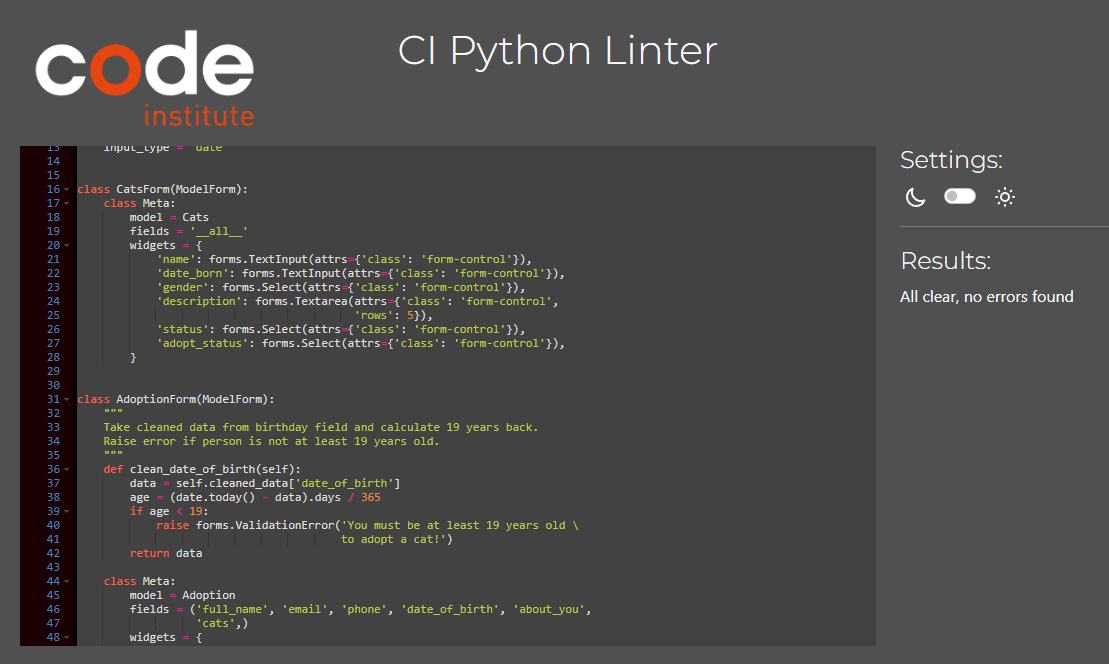
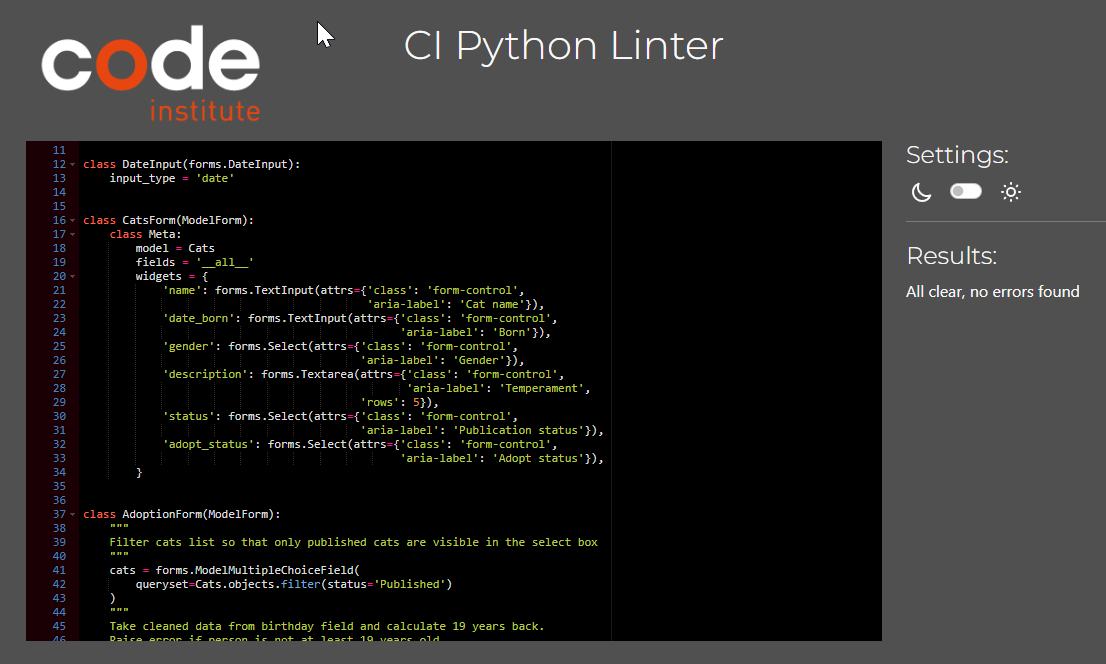
Add ReadMe file incl. images

diff --git a/cats/forms.py b/cats/forms.py
@@ -21,11 +21,11 @@ class CatsForm(ModelForm):
             'name': forms.TextInput(attrs={'class': 'form-control',
                                            'aria-label': 'Cat name'}),
             'date_born': forms.TextInput(attrs={'class': 'form-control',
-                                            'aria-label': 'Born'}),
+                                                'aria-label': 'Born'}),
             'gender': forms.Select(attrs={'class': 'form-control',
                                           'aria-label': 'Gender'}),
             'description': forms.Textarea(attrs={'class': 'form-control',
-                                                'aria-label': 'Temperament',
+                                                 'aria-label': 'Temperament',
                                           'rows': 5}),
             'status': forms.Select(attrs={'class': 'form-control',
                                           'aria-label': 'Publication status'}),
@@ -69,7 +69,7 @@ class AdoptionForm(ModelForm):
                                             'placeholder': 'Phone number *, ' +
                                             'use format +46 123456789'}),
             'date_of_birth': forms.DateInput(attrs={'type': 'date',
-                                                    'aria-label': 'Date of Birth'}),
+                                                    'aria-label': 'Birthday'}),
             'about_you': forms.Textarea(attrs={'class': 'form-control',
                                                'aria-label': 'About you',
                                                'rows': 5, 'placeholder':
@@ -112,7 +112,7 @@ class StatusForm(ModelForm):
             'status': forms.Select(attrs={'class': 'form-control',
                                           'aria-label': 'Status'}),
             'comments': forms.Textarea(attrs={'class': 'form-control',
-                                            'aria-label': 'Comments',
+                                              'aria-label': 'Comments',
                                               'rows': 5,
                                               'placeholder': 'Comments'}),
         }

diff --git a/README.md b/README.md
@@ -6,7 +6,8 @@
 
 [Mayas Cat Shelter](https://mayas-cat-shelter-9ef5d0b15271.herokuapp.com/) is a fictional cat shelter in the city of Gävle, Sweden. The structure, set-up as well as the background stories of the cats are losely based on a real local cat shelter, Gefle Katthem. 
 
-![Mayas Cat Shelter](IMAGE)
+![Mayas Cat Shelter](static/readme-images/screenshots-pages/amiresponsive1.png)
+![Mayas Cat Shelter](static/readme-images/screenshots-pages/amiresponsive2.png)
 
 Each page includes a responsive navigation bar as well as a footer with copyright information, social media links and a fictional telephone number. 
 The start page includes an image carousel with two images which link to a page with available cats respective a page with information about the adoption process. 
@@ -19,7 +20,9 @@ More details can be found in the respective Features section.
 ## UX
 
 Mayas Cat Shelter is for all people who love cats and consider to adopt one. 
-Stumbling into the cat adoption world myself by accident, cat lovers come in all sizes, shapes, education levels, cultural backgrounds and ages. However, loving cats it not enough because when adopting a cat you take over the responsibility for a living being. And cats can be up to 20 years (or older) so it's really a long lasting relationship and should be well thought through. That's why I put much effort into the adoption rules & process page and tried to explain why a cat shelter is thorough in checking each application to find the perfect match. 
+Stumbling into the cat adoption world myself by accident, cat lovers come in all sizes, shapes, education levels, cultural backgrounds and ages. 
+So, target group for this website are all people who love cats, but of course merely those who live close to the cat shelter. 
+
 
 
 ## Design
@@ -27,6 +30,8 @@ Stumbling into the cat adoption world myself by accident, cat lovers come in all
 ### Colors
 
 The websites's color scheme uses soft tones that harmonize very well with each other. I wanted to have a color scheme that includes red and blue tones to represent female and male cats and found a palette that blends some calming greenish color with the mentioned red and blue and makes it look very appealing.
+
+![Color palette](static/readme-images/others/color_palette.png)
 
 ### Typography
 
@@ -36,7 +41,38 @@ I wanted to add a logotype representing a cat and found a nice image that I used
 ## Wireframes
 
 Wireframes were created for desktop, iPad and smartphones using Balsamiq.
-IMAGES
+
+#### Home Page
+![Home Page Desktop](/static/readme-images/wireframes/Home.png)
+
+![Home Page iPad](/static/readme-images/wireframes/Home iPad.png)
+
+![Home Page Smartphone](static/readme-images/wireframes/Home Smartphone.png)
+
+#### Our Cats
+![Our Cats Desktop](/static/readme-images/wireframes/Our Cats.png)
+![Our Cats iPad](static/readme-images/wireframes/Our Cats iPad.png)
+![Our Cats Smartphone](static/readme-images/wireframes/Our Cats Smartphone.png)
+
+#### Adoption
+![Adoption Rules Desktop](static/readme-images/wireframes/Adoption Rules.png)
+![Adooption Rules iPad](static/readme-images/wireframes/Adoption Rules iPad.png)
+![Adoption Rules Smartphone](static/readme-images/wireframes/Adoption Rules Smartphone.png)
+
+#### Adoption Form
+![Adoption Form Desktop](static/readme-images/wireframes/Adoption Form.png)
+![Adoption Form iPad](static/readme-images/wireframes/Adoption Form iPad.png)
+![Adoption Form Smartphone](static/readme-images/wireframes/Adoption Form Smartphone.png)
+
+#### Administration Cats
+![Admin Cats Desktop](static/readme-images/wireframes/Administration Cats.png)
+![Admin Cats iPad](static/readme-images/wireframes/Administration Cats iPad.png)
+![Admin Cats Smartphone](static/readme-images/wireframes/Administration Cats Smartphone.png)
+
+#### Administration Adoption Requests
+![Admin Adoption Desktop](static/readme-images/wireframes/Administration Adoptions.png)
+![Admin Adoption iPad](static/readme-images/wireframes/Administration Adoptions iPad.png)
+![Admin Adoption Smartphone](static/readme-images/wireframes/Administration Adoptions Smartphone.png)
 
 ## Agile 
 
@@ -50,7 +86,7 @@ Open user stories have been collected in the backlog section.
 
 The project is open for public access and can be visited here.
 ![Agile Project](https://github.com/ClaudiaInSweden/mayas_cat_shelter/projects)
-![Project User Stories](IMAGE)
+![Project User Stories](static/readme-images/others/user-stories.png)
 
 
 <hr>
@@ -62,12 +98,14 @@ The project is open for public access and can be visited here.
 The responsive navigation bar on top of the page includes links to the Home Page, Our Cats, Adoption, Staff Login. When a user is logged in, a Logout link is visible instead as well as a dropdown link with two sections, one to the cats administration page and the other one to a list of all adoption requests.
 On smaller screens the links are replaced with a clickable toggle icon.
 
-Image Navbar
+![Navbar](static/readme-images/screenshots-pages/navbar.png)
 
 
 ### Footer
 
 The responsive footer sticks to the bottom of each page and includes copyright information, links to the social media platforms, Facebook, Instagram and Youtube and a fictional telephone number.
+
+![Footer](static/readme-images/screenshots-pages/footer.png)
 
 
 ### Home Page
@@ -75,7 +113,7 @@ The responsive footer sticks to the bottom of each page and includes copyright i
 The Home page is the starting point for users. A carousel shows two alternating cat images with links to either the cats page or the adoption page. Some descriptive text about the cat shelter can be found below the carousel. 
 
 
-![Home Page](https://hanneles-art-gallery.s3.eu-north-1.amazonaws.com/readme-docs/Homepage.jpg) IMAGE
+![Home Page](static/readme-images/screenshots-pages/amiresponsive2.png)
 
 
 
@@ -87,13 +125,17 @@ On this page all available cats are listed with:
 - Gender (depending on gender, displayed in red (female) or blue (male))
 - Background and Temperament
 - Adoption status (when a cat is already adopted, the "Adopt" button is replaced with just some info text accordingly)
-- Adopt Button that links to the adoption form  
+- Adopt Button that links to the adoption form
+
+![Our Cats](static/readme-images/screenshots-pages/cats.png)
 
 
 ### Adoption
 
 The adoption page includes information about what to consider when adopting a cat, the costs and the process steps.
 On the bottom of the page a button links to the adoption form. 
+
+![Adoption](static/readme-images/screenshots-pages/adoption.png)
 
 
 ### Adoption Form
@@ -103,6 +145,8 @@ The adoption form consists of two parts:
 2. The user selects up to three cats to adopt. It's also possible to search for cat names.
 
 When clicking the submit button, the user will be redirected to the start page and a confirmation message will be displayed for 5 seconds. It is also possible to remove the message by closing it manually. 
+
+![Adoption Form](static/readme-images/screenshots-pages/adoption-form.png)
 
 
 ### Administration for staff
@@ -119,12 +163,16 @@ On top of the page, a "Add a cat" button links to the add cat form. To populate 
 When the staff member clicks on the edit button in the cat table, the same form will be opened, but with the cat data pre-populated. 
 When the staff member clicks on the delete button in the cat table, a confirmation page will be opened, asking for a confirmation to delete the cat. When the user confirms deleting, the cat will be deleted and the user redirected to the cat administration page. If the user clicks on Cancel, the user will be redirected back to the cat administration page. 
 
+![Admin Cats](static/readme-images/screenshots-pages/admin_cats.png)
+
 
 #### Administration Adoption requests
 
 The staff member will see all adoption requests in card form, sorted by date. The idea with this page is that the staff can see at one glance all information about an adopter. A staff member can also edit the status of the adoption request, following the steps outlined on the adoption page, and add comments. 
 Personal data of the adopter is not editable in this view! 
 However, as there is the possibility that either the interested adopter or the cat shelter staff conclude that the choosen cat might not be the right one for this person, the cat selection list is editable for staff members. 
+
+![Admin Adoptions](static/readme-images/screenshots-pages/update_status.png)
 
 
 ### Login/Logout
@@ -136,6 +184,44 @@ When a staff member is logged in, the "Staff Login" link will change to "Logout"
 Non-staff users who try to access one of the administrator pages (add-cat, update-cat, delete-cat, update-status), will be redirected to the Login page.
 
 
+## Information Architecture
+
+### Relationship Diagram
+
+![ERD](static/readme-images/others/PP4_Entity Relationship Diagram.drawio.png)
+
+### Data Models
+
+#### Cats Model
+
+id (PK): unique identifier for each cat
+name (string): Name of the cat
+date_born (string): month and year when cat is born
+gender (choice): female or male
+description (textfield): A description of the cats background and temperament
+image (image upload to Cloudinary): picture of cat or placeholder image
+status (choice): draft or published
+adopt_status (choice): Not yet ready for adoption, ready for adoption, booked, adopted
+date_created (date): set automatically to todays date
+
+#### Adoption Model
+
+id (PK): unique iedentifier for each adoption request
+full_name: (string) Name
+email (email field): Email 
+phone (phonenumber): phone number
+date_of_birth (date input): date, validates if adopter is 19 years or older
+about_you (text area): Freetext field
+cats (ManyToMany relationship to cats): to select up to three cats 
+received (date): set automatically to todays date
+status (choice): for admin to set according to where in the adoption process they are
+comments (text field): for admin to fill in
+
+
+#### CRUD Functionality
+Administrator can create, read, update and delete cats
+Administrator can read and update adoption requests
+User can read non-restricted content
 
 
 ## Technologies used
@@ -172,38 +258,69 @@ Non-staff users who try to access one of the administrator pages (add-cat, updat
 
 #### HTML
 
-A lot of errors were returned when passing through the [W3C Markup validator](https://validator.w3.org/).
-However, this must be due to the fact that the templates are rendered differently. When I compare the errors with the actual code they do not correspond at all. This is the products page so the error repeats for the whole loop of 24 products. 
-See example below.
-![HTML Validator](https://hanneles-art-gallery.s3.eu-north-1.amazonaws.com/readme-docs/HTML+Validator-errors.jpg)
-![HTML Validator](https://hanneles-art-gallery.s3.eu-north-1.amazonaws.com/readme-docs/HTML+Validator.jpg)
+No errors were returned when passing through the [W3C Markup validator](https://validator.w3.org/).
+Details for each page can be found by clicking the expand button.
+ 
+
+<details>
+
+<summary>HTML Validation </summary>
+![Home Page](static/readme-images/validation-html/index.png)
+![Our Cats](static/readme-images/validation-html/cats.png)
+![Adoption](static/readme-images/validation-html/adoption.png)
+![Adoption Form](static/readme-images/validation-html/adoption_form.png)
+![Admin Cats](static/readme-images/validation-html/cats_administration.png)
+![Admin Adoption](static/readme-images/validation-html/adoption_administration.png)
+![Login](static/readme-images/validation-html/login.png)
+![Logout](static/readme-images/validation-html/logout.png)
+
+</details>
+
 
 
 #### CSS
 
 No errors were found when passing through the [W3C CSS Validator](https://jigsaw.w3.org/css-validator/) validator
-![CSS Validator](https://hanneles-art-gallery.s3.eu-north-1.amazonaws.com/readme-docs/CSS_Validator.jpg)
+![CSS Validator](static/readme-images/validation-css/validation-css.png)
 
 #### Google Chrome Lighthouse Reports
 
-These reports presents the results of Lighthouse testing to assess the performance, accessibility, best practices and SEO of Hanneles Art Gallery.
+These reports presents the results of Lighthouse testing to assess the performance, accessibility, best practices and SEO of Mayas Cat Shelter.
 
 The tests were executed using the Google Chrome browser's DevTools.
-ADetails for each page can be found by clicking the expand button.
-![Home](https://hanneles-art-gallery.s3.eu-north-1.amazonaws.com/readme-docs/lighthouse_home.jpg)
-![Paintings](https://hanneles-art-gallery.s3.eu-north-1.amazonaws.com/readme-docs/lighthouse_products.jpg)
-![Paintings Details](https://hanneles-art-gallery.s3.eu-north-1.amazonaws.com/readme-docs/lighthouse_product_detail.jpg)
-![Shopping Cart](https://hanneles-art-gallery.s3.eu-north-1.amazonaws.com/readme-docs/lighthouse_cart.jpg)
-![Checkout](https://hanneles-art-gallery.s3.eu-north-1.amazonaws.com/readme-docs/lighthouse_checkout.jpg)
-![My Profile](https://hanneles-art-gallery.s3.eu-north-1.amazonaws.com/readme-docs/lighthouse_myprofile.jpg)
-![Product Management](https://hanneles-art-gallery.s3.eu-north-1.amazonaws.com/readme-docs/lighthouse_product_management.jpg)
+Details for each page can be found by clicking the expand button.
 
-#### JavaScript validation
-Due to lack of time this step could not be performed.
+<details>
+
+<summary>Lighthouse Reports</summary>
+
+![Home](static/readme-images/validation-performance/index.png)
+![Our Cats](static/readme-images/validation-performance/cats.png)
+![Adoption](static/readme-images/validation-performance/adoption.png)
+![Adoption Form](static/readme-images/validation-performance/adoption_form.png)
+![Admin Cats](static/readme-images/validation-performance/cats_administration.png)
+![Admin Adoptions](static/readme-images/validation-performance/adoption_administration.png)
+![Login](static/readme-images/validation-performance/login.png)
+![Logout](static/readme-images/validation-performance/logout.png)
+
+</details>
 
 
 #### Python validation
-Due to lack of time this step could not be performed.
+No errors were returned when passing through the [CI Python Linter](https://pep8ci.herokuapp.com/).
+Details for each part can be found by clicking the expand button.
+ 
+
+<details>
+
+<summary>Python Linter </summary>
+![models.py](static/readme-images/validation-python/models_py.png)
+![forms.py](static/readme-images/validation-python/forms_py.png)
+![admin.py](static/readme-images/validation-python/admin_py.png)
+![urls.py](static/readme-images/validation-python/urls_py.png)
+![views.py](static/readme-images/validation-python/views_py.png)
+
+</details>
 
 
 
@@ -218,14 +335,19 @@ Functionality, links, layout, and responsiveness were tested with the following 
   
 
 ## Bugs
-Due to a bug regarding Stripe webhooks hours of research were spent and finally solved with help from Rebecca from Tutor Service.
-However, due to this major issue, the project could not be finalized on time.
+
 
 
 
 ## Credits
 
-All painting images belong to Hannele Hannele Kaarlejärvi
-![404 Error Image](https://www.vecteezy.com/free-vector/painting-stand)
-![Bootstrap-4-multi-dropdown-navbar:]
-![Bootstrap Template "Pillow Mart"](https://themewagon.com/themes/free-bootstrap-4-html5-responsive-online-store-template-pillow-mart/)
+#### Cats images:
+![Default image, logo & favicon](https://www.vectorportal.com)
+![All Cats](https://unsplash.com)
+
+#### Code Snippets & Tutorials:
+![Fieldset and legend revert](https://stackoverflow.com/questions/70536735/override-bootstrap-5-fieldset-style)
+![Django Select2](https://www.youtube.com/watch?v=Zzd4sL7drKQ&list=PL-2EBeDYMIbQIu4aMZYqM6_w1ihIKWIql&index=19&pp=iAQB)
+![Bootstrap5 Documentation](https://getbootstrap.com/docs/5.1/getting-started/introduction/)
+![Django Documentation](https://docs.djangoproject.com/en/4.2/)
+![W3Schools](https://www.w3schools.com/)
